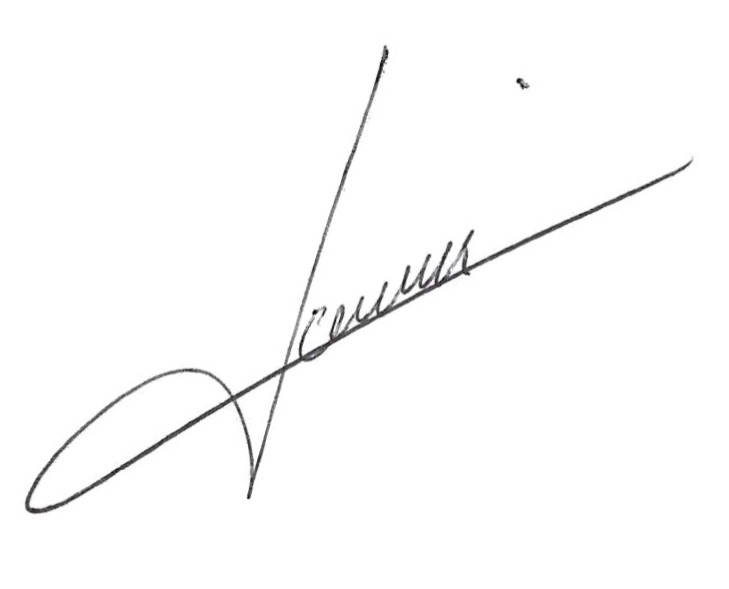
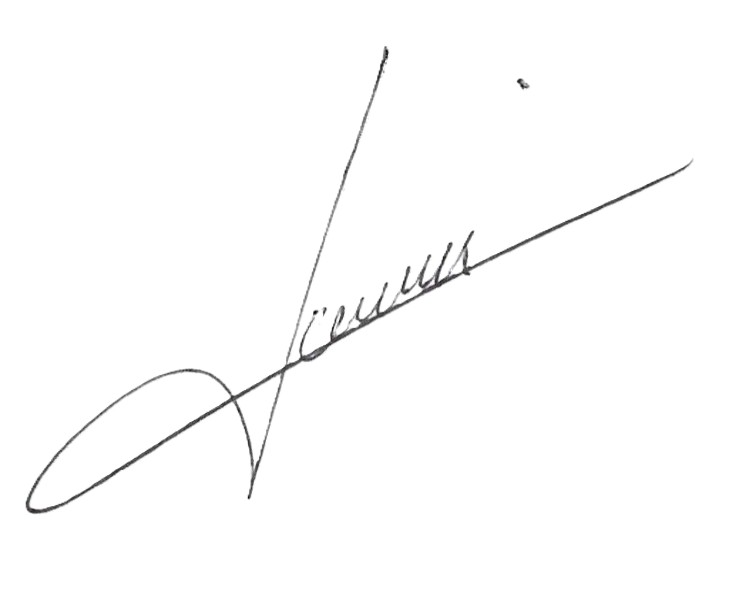
feat: add candidate birth dates and trainer signature

diff --git a/app/(dashboard)/sessions/actions.ts b/app/(dashboard)/sessions/actions.ts
@@ -318,6 +318,7 @@ export async function createCandidateAction(_: ActionState, formData: FormData):
     existingCandidateId: selectedExistingCandidateId,
     firstName: formData.get("firstName") || (reusingExistingCandidate ? "Dossier existant" : ""),
     lastName: formData.get("lastName") || (reusingExistingCandidate ? "Sélectionné" : ""),
+    birthDate: formData.get("birthDate"),
     email: formData.get("email"),
     company: formData.get("company"),
     companyId: formData.get("companyId"),
@@ -338,7 +339,7 @@ export async function createCandidateAction(_: ActionState, formData: FormData):
   const { data: existingCandidate } = existingCandidateId
     ? await supabase
         .from("candidates")
-        .select("first_name, last_name, email, company, company_id, phone, job_title, address, postal_code, city, validation_status, mac_identity_id")
+        .select("first_name, last_name, birth_date, email, company, company_id, phone, job_title, address, postal_code, city, validation_status, mac_identity_id")
         .eq("id", existingCandidateId)
         .maybeSingle()
     : { data: null };
@@ -365,6 +366,7 @@ export async function createCandidateAction(_: ActionState, formData: FormData):
       company_id: existingCandidate?.company_id ?? (parsed.data.companyId || null),
       first_name: existingCandidate?.first_name ?? parsed.data.firstName,
       last_name: existingCandidate?.last_name ?? parsed.data.lastName,
+      birth_date: existingCandidate?.birth_date ?? (parsed.data.birthDate || null),
       email: existingCandidate?.email ?? (parsed.data.email || null),
       company: existingCandidate?.company ?? companyLabel,
       phone: existingCandidate?.phone ?? (parsed.data.phone || null),
@@ -422,6 +424,7 @@ export async function updateCandidateAction(_: ActionState, formData: FormData):
     sessionId: formData.get("sessionId"),
     firstName: formData.get("firstName"),
     lastName: formData.get("lastName"),
+    birthDate: formData.get("birthDate"),
     email: formData.get("email"),
     company: formData.get("company"),
     companyId: formData.get("companyId"),
@@ -445,6 +448,7 @@ export async function updateCandidateAction(_: ActionState, formData: FormData):
       company_id: parsed.data.companyId || null,
       first_name: parsed.data.firstName,
       last_name: parsed.data.lastName,
+      birth_date: parsed.data.birthDate || null,
       email: parsed.data.email || null,
       company: companyLabel,
       phone: parsed.data.phone || null,

diff --git a/lib/validation.ts b/lib/validation.ts
@@ -6,6 +6,20 @@ const candidateEvaluationStatusSchema = z.enum(["non_evalue", "en_cours", "acqui
 const candidateEvaluationResultSchema = z.enum(["admis", "non_admis", "absent", "partiel", "non_renseigne"]);
 const sessionClosureStatusSchema = z.enum(["ready", "closed"]);
 const optionalFormStringSchema = z.preprocess((value) => value ?? "", z.string());
+const optionalBirthDateSchema = z.preprocess(
+  (value) => value ?? "",
+  z
+    .union([z.literal(""), z.string().regex(/^\d{4}-\d{2}-\d{2}$/, "La date de naissance est invalide.")])
+    .refine(
+      (value) =>
+        value === "" ||
+        (() => {
+          const date = new Date(`${value}T00:00:00.000Z`);
+          return !Number.isNaN(date.getTime()) && date.toISOString().slice(0, 10) === value;
+        })(),
+      "La date de naissance est invalide."
+    )
+);
 
 export const loginSchema = z.object({
   email: z.string().email("Email invalide."),
@@ -57,6 +71,7 @@ export const createCandidateSchema = z.object({
   existingCandidateId: z.string().uuid().optional().or(z.literal("")),
   firstName: z.string().min(2, "Le prénom est requis."),
   lastName: z.string().min(2, "Le nom est requis."),
+  birthDate: optionalBirthDateSchema,
   email: z.string().email("Email invalide.").or(z.literal("")),
   company: optionalFormStringSchema,
   companyId: z.string().uuid().or(z.literal("")),
@@ -73,6 +88,7 @@ export const createCompanyCandidateSchema = z.object({
   sessionId: z.string().uuid().optional().or(z.literal("")),
   firstName: z.string().min(2, "Le prénom est requis."),
   lastName: z.string().min(2, "Le nom est requis."),
+  birthDate: optionalBirthDateSchema,
   email: z.string().email("Email invalide.").or(z.literal("")),
   phone: z.string().optional().default(""),
   jobTitle: z.string().optional().default(""),
@@ -87,6 +103,7 @@ export const updateCandidateSchema = z.object({
   sessionId: z.string().uuid().optional().or(z.literal("")),
   firstName: z.string().min(2, "Le prénom est requis."),
   lastName: z.string().min(2, "Le nom est requis."),
+  birthDate: optionalBirthDateSchema,
   email: z.string().email("Email invalide.").or(z.literal("")),
   company: z.string().optional().default(""),
   companyId: z.string().uuid().or(z.literal("")),

diff --git a/lib/validation.test.ts b/lib/validation.test.ts
@@ -1,5 +1,5 @@
 import { describe, expect, it } from "vitest";
-import { createCandidateSchema, createQuoteSchema, createSessionSchema } from "@/lib/validation";
+import { createCandidateSchema, createQuoteSchema, createSessionSchema, updateCandidateSchema } from "@/lib/validation";
 
 const baseQuote = {
   sessionId: "",
@@ -108,6 +108,7 @@ describe("training form validation", () => {
       companyId: "00000000-0000-4000-8000-000000000001",
       firstName: "Jean",
       lastName: "Dupont",
+      birthDate: "1990-05-12",
       email: "",
       phone: "",
       jobTitle: "",
@@ -122,5 +123,27 @@ describe("training form validation", () => {
     expect(result.address).toBe("");
     expect(result.postalCode).toBe("");
     expect(result.city).toBe("");
+    expect(result.birthDate).toBe("1990-05-12");
+  });
+
+  it("accepts an optional valid birth date and rejects an impossible one", () => {
+    const baseCandidate = {
+      candidateId: "00000000-0000-4000-8000-000000000010",
+      sessionId: "",
+      firstName: "Jean",
+      lastName: "Dupont",
+      email: "",
+      company: "",
+      companyId: "",
+      phone: "",
+      jobTitle: "",
+      address: "",
+      postalCode: "",
+      city: "",
+      validationStatus: "pending"
+    };
+    expect(updateCandidateSchema.parse({ ...baseCandidate, birthDate: "" }).birthDate).toBe("");
+    expect(updateCandidateSchema.parse({ ...baseCandidate, birthDate: "1987-12-03" }).birthDate).toBe("1987-12-03");
+    expect(updateCandidateSchema.safeParse({ ...baseCandidate, birthDate: "1987-02-30" }).success).toBe(false);
   });
 });

diff --git a/components/sessions/create-candidate-form.tsx b/components/sessions/create-candidate-form.tsx
@@ -31,6 +31,7 @@ export function CreateCandidateForm({
       {existingCandidates.length ? <label className="flex flex-col gap-2 text-sm font-medium text-ink/80 md:col-span-2"><span>Réutiliser un dossier candidat existant (facultatif)</span><select name="existingCandidateId" value={existingCandidateId} onChange={(event) => setExistingCandidateId(event.target.value)} className="rounded-2xl border border-ink/10 bg-white px-4 py-3 text-sm shadow-sm"><option value="">Créer une nouvelle personne et une nouvelle identité MAC</option>{existingCandidates.map((candidate) => <option key={candidate.id} value={candidate.id}>{candidate.first_name} {candidate.last_name}{candidate.email ? ` — ${candidate.email}` : ""}{candidate.session ? ` (${candidate.session.title})` : ""}</option>)}</select><span className="font-normal text-ink/55">Le choix réutilise explicitement l’identité MAC existante ; aucun rapprochement par nom ou email n’est effectué.</span></label> : <input type="hidden" name="existingCandidateId" value="" />}
       <Input label="Prénom" name="firstName" required={!reusingExistingCandidate} />
       <Input label="Nom" name="lastName" required={!reusingExistingCandidate} />
+      <Input label="Date de naissance" name="birthDate" type="date" disabled={reusingExistingCandidate} />
       <Input label="Email" name="email" type="email" />
       <Input label="Téléphone" name="phone" />
       <Input label="Fonction" name="jobTitle" />

diff --git a/lib/queries.ts b/lib/queries.ts
@@ -331,6 +331,7 @@ async function selectCompanyCandidatesByCompanyIdWithFallback(companyId: string)
       company_id,
       first_name,
       last_name,
+      birth_date,
       email,
       company,
       phone,
@@ -1240,6 +1241,7 @@ async function selectCandidatesBySessionIdWithFallback(sessionId: string) {
       company_id,
       first_name,
       last_name,
+      birth_date,
       email,
       company,
       phone,
@@ -1941,6 +1943,7 @@ export async function getCandidateById(candidateId: string): Promise<CandidateDa
         company_id,
         first_name,
         last_name,
+        birth_date,
         email,
         company,
         phone,
@@ -1999,6 +2002,7 @@ export async function getCandidateById(candidateId: string): Promise<CandidateDa
     company_id: data.company_id,
     first_name: data.first_name,
     last_name: data.last_name,
+    birth_date: data.birth_date ?? null,
     email: data.email,
     company: data.company,
     phone: data.phone,

diff --git a/components/sessions/edit-candidate-form.tsx b/components/sessions/edit-candidate-form.tsx
@@ -31,6 +31,7 @@ export function EditCandidateForm({
           <input type="hidden" name="sessionId" value={candidateSession.session_id} />
           <Input label="Prénom" name="firstName" defaultValue={candidate.first_name} required />
           <Input label="Nom" name="lastName" defaultValue={candidate.last_name} required />
+          <Input label="Date de naissance" name="birthDate" type="date" defaultValue={candidate.birth_date ?? ""} />
           <Input label="Email" name="email" type="email" defaultValue={candidate.email ?? ""} />
           <Input label="Téléphone" name="phone" defaultValue={candidate.phone ?? ""} />
           <Input label="Fonction" name="jobTitle" defaultValue={candidate.job_title ?? ""} />

diff --git a/app/(dashboard)/companies/actions.ts b/app/(dashboard)/companies/actions.ts
@@ -183,6 +183,7 @@ export async function createCompanyCandidateAction(
     sessionId: formData.get("sessionId"),
     firstName: formData.get("firstName"),
     lastName: formData.get("lastName"),
+    birthDate: formData.get("birthDate"),
     email: formData.get("email"),
     phone: formData.get("phone"),
     jobTitle: formData.get("jobTitle"),
@@ -212,6 +213,7 @@ export async function createCompanyCandidateAction(
     company_id: parsed.data.companyId,
     first_name: parsed.data.firstName,
     last_name: parsed.data.lastName,
+    birth_date: parsed.data.birthDate || null,
     email: parsed.data.email || null,
     company: company.company_name,
     phone: parsed.data.phone || null,

diff --git a/components/companies/create-company-candidate-form.tsx b/components/companies/create-company-candidate-form.tsx
@@ -31,6 +31,7 @@ export function CreateCompanyCandidateForm({
 
       <Input label="Prénom" name="firstName" required />
       <Input label="Nom" name="lastName" required />
+      <Input label="Date de naissance" name="birthDate" type="date" />
       <Input label="Email" name="email" type="email" />
       <Input label="Téléphone" name="phone" />
       <Input label="Fonction" name="jobTitle" />

diff --git a/lib/types.ts b/lib/types.ts
@@ -64,6 +64,7 @@ export type Candidate = {
   company_id: string | null;
   first_name: string;
   last_name: string;
+  birth_date?: string | null;
   email: string | null;
   company: string | null;
   phone: string | null;
